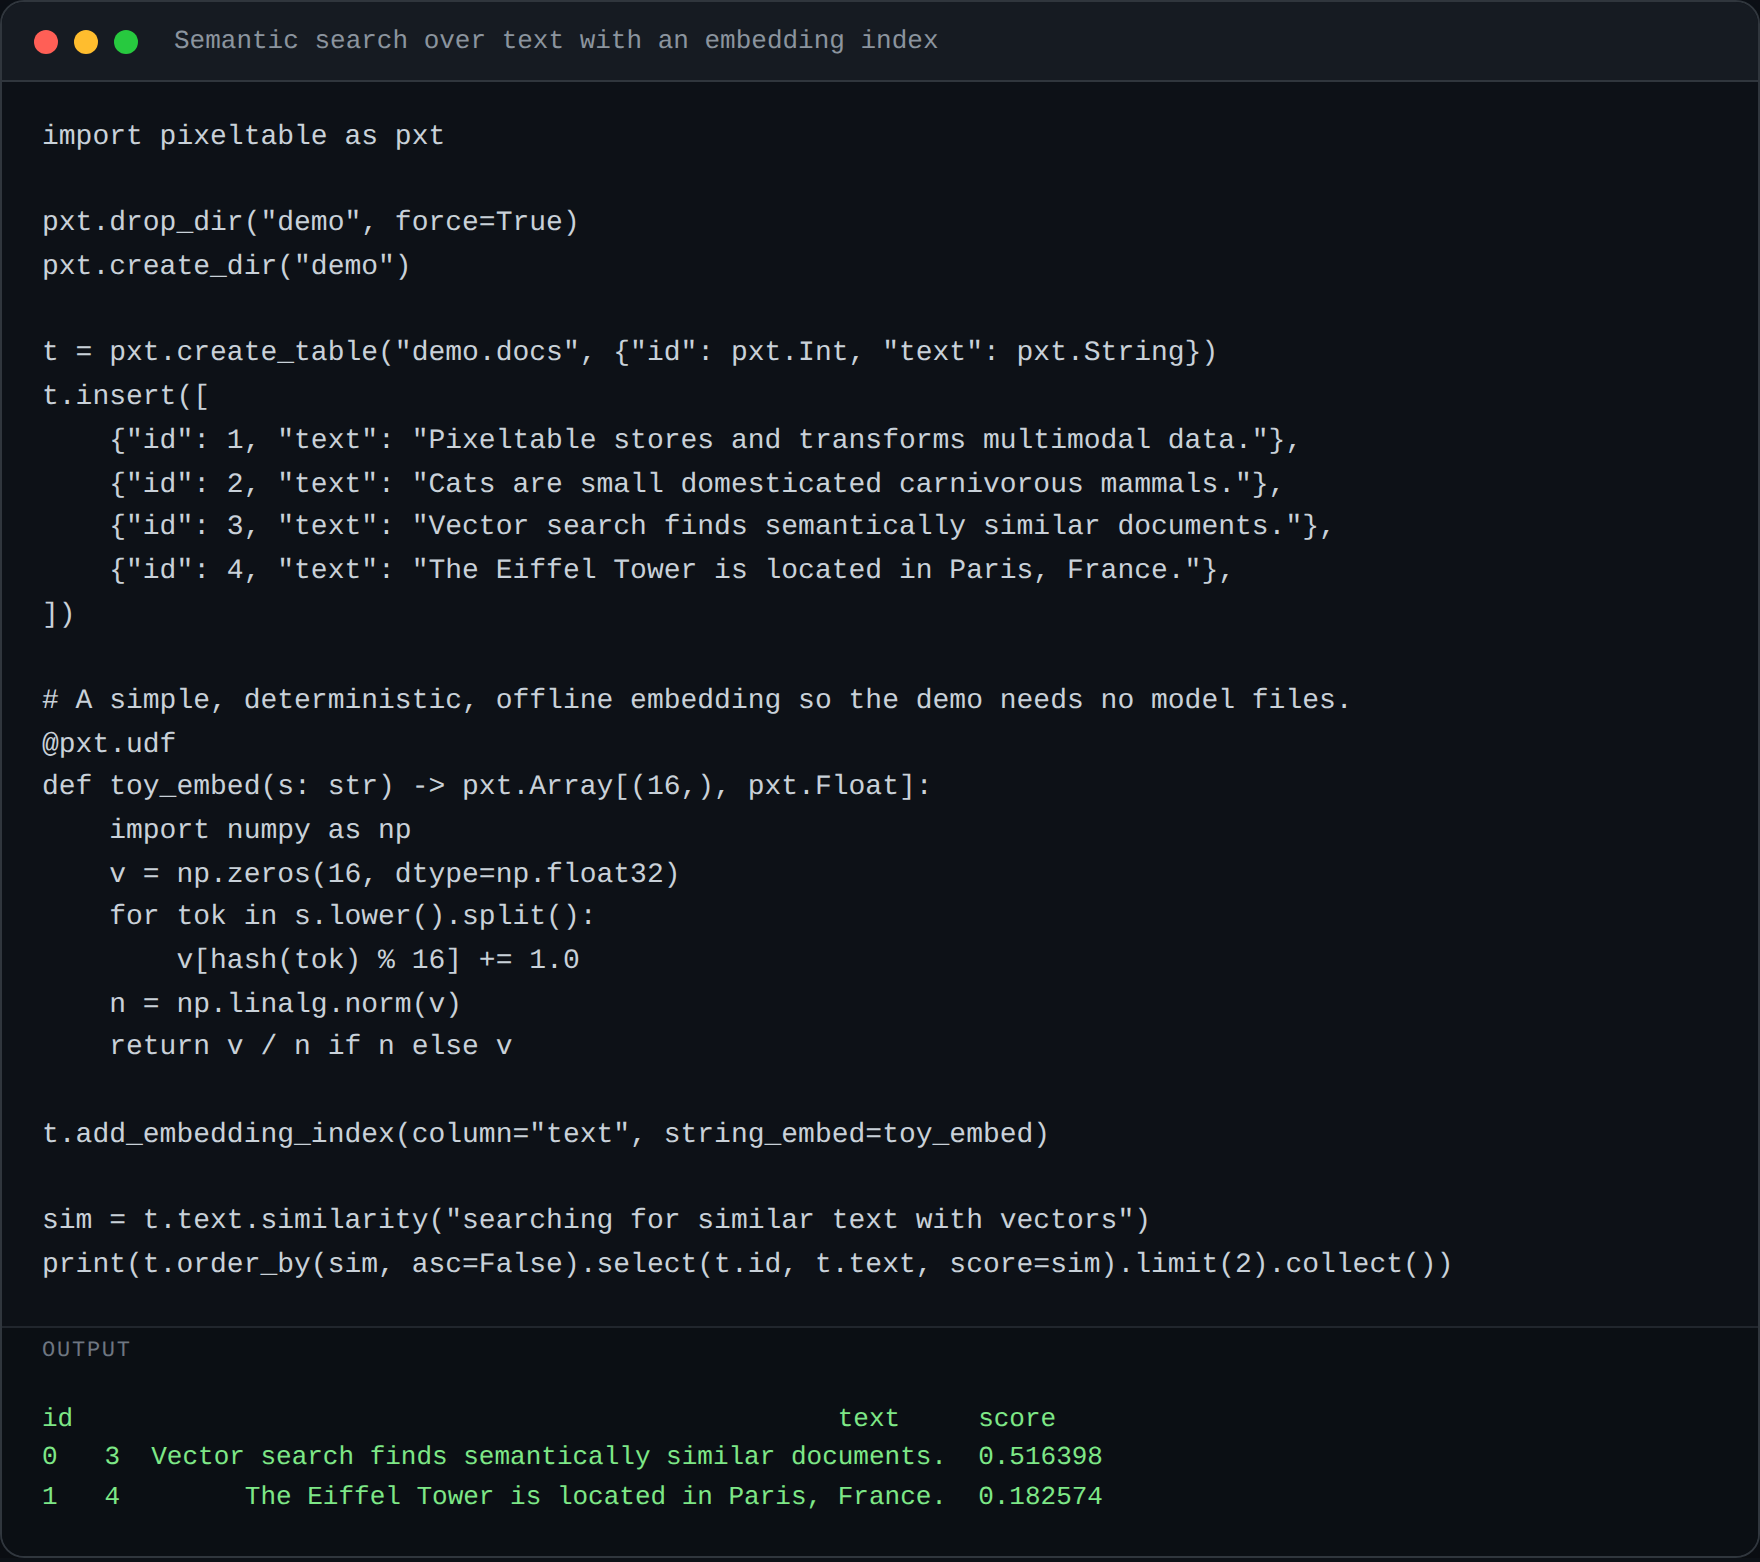
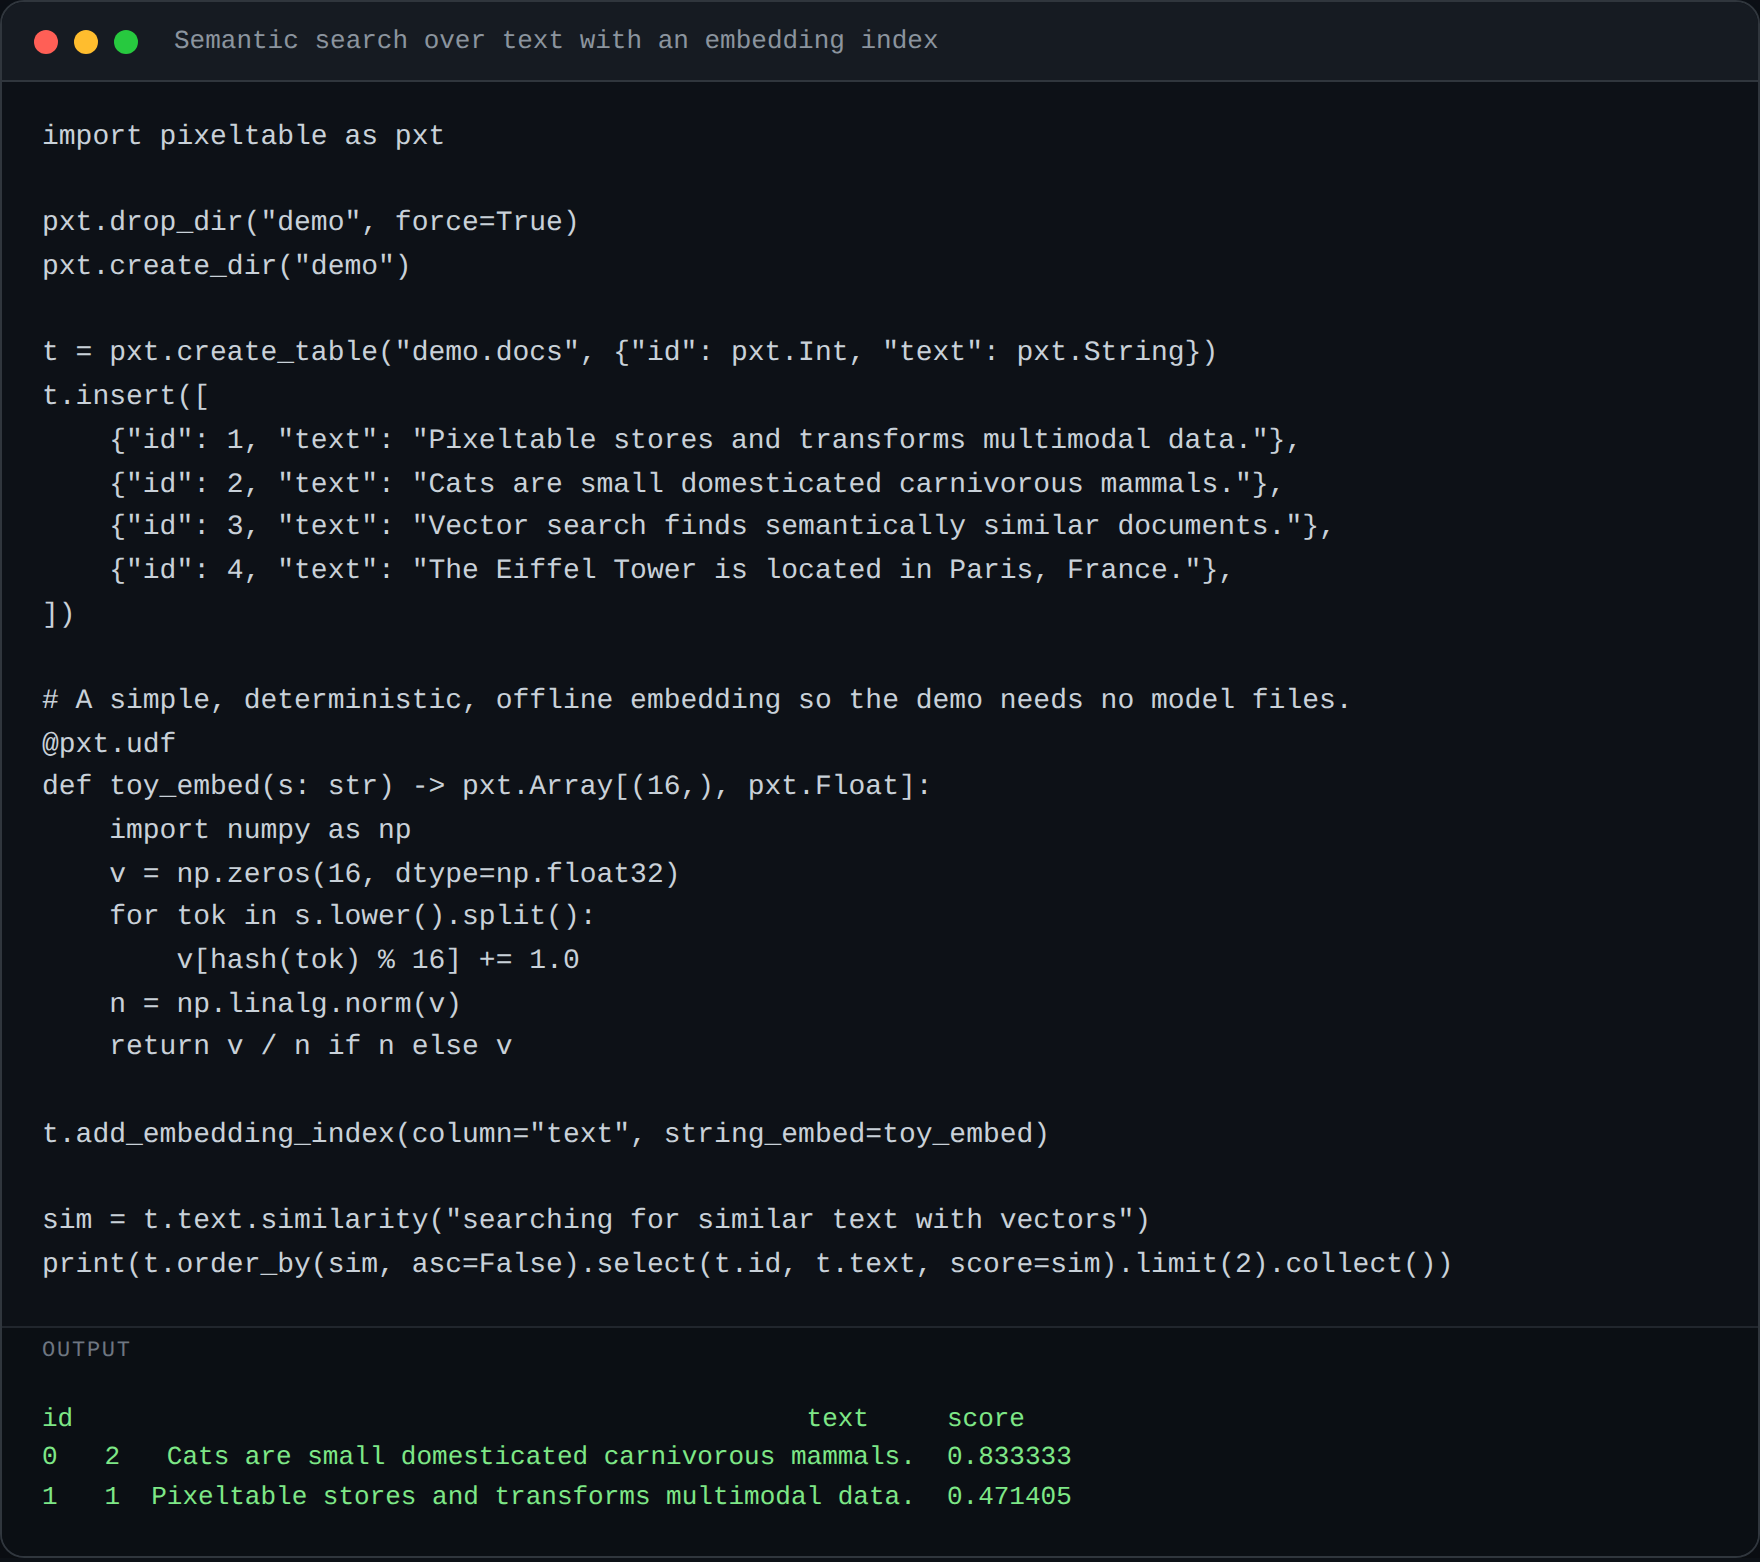
Publish site 2026-06-13T14:00Z

Changed region(s): [[0.0938, 0.8912, 0.625, 0.9834]]

diff --git a/posts/evoarena-tracking-memory-evolution-for-robust-llm-agents-in-dynamic-environments.html b/posts/evoarena-tracking-memory-evolution-for-robust-llm-agents-in-dynamic-environments.html
@@ -70,11 +70,11 @@ sim = t.text.similarity("searching for similar text with vectors")
 print(t.order_by(sim, asc=False).select(t.id, t.text, score=sim).limit(2).collect())
 </code></pre>
 <p>Run it and you get real output — here's the actual result captured from this
-exact snippet (ran in 5.73s):</p>
+exact snippet (ran in 5.62s):</p>
 <p><img alt="Semantic search over text with an embedding index" src="https://chrisclone.github.io/pixeltable-content-feed/assets/evoarena-tracking-memory-evolution-for-robust-llm-agents-in-dynamic-environments/example.png"></p>
-<pre><code>id                                                 text     score
-0   3  Vector search finds semantically similar documents.  0.516398
-1   4        The Eiffel Tower is located in Paris, France.  0.182574
+<pre><code>id                                               text     score
+0   2   Cats are small domesticated carnivorous mammals.  0.833333
+1   1  Pixeltable stores and transforms multimodal data.  0.471405
 </code></pre>
 <p>That's not a mockup. The code above executed against Pixeltable and produced
 that table. Swap the toy pieces (a UDF, a local embedding) for production ones —